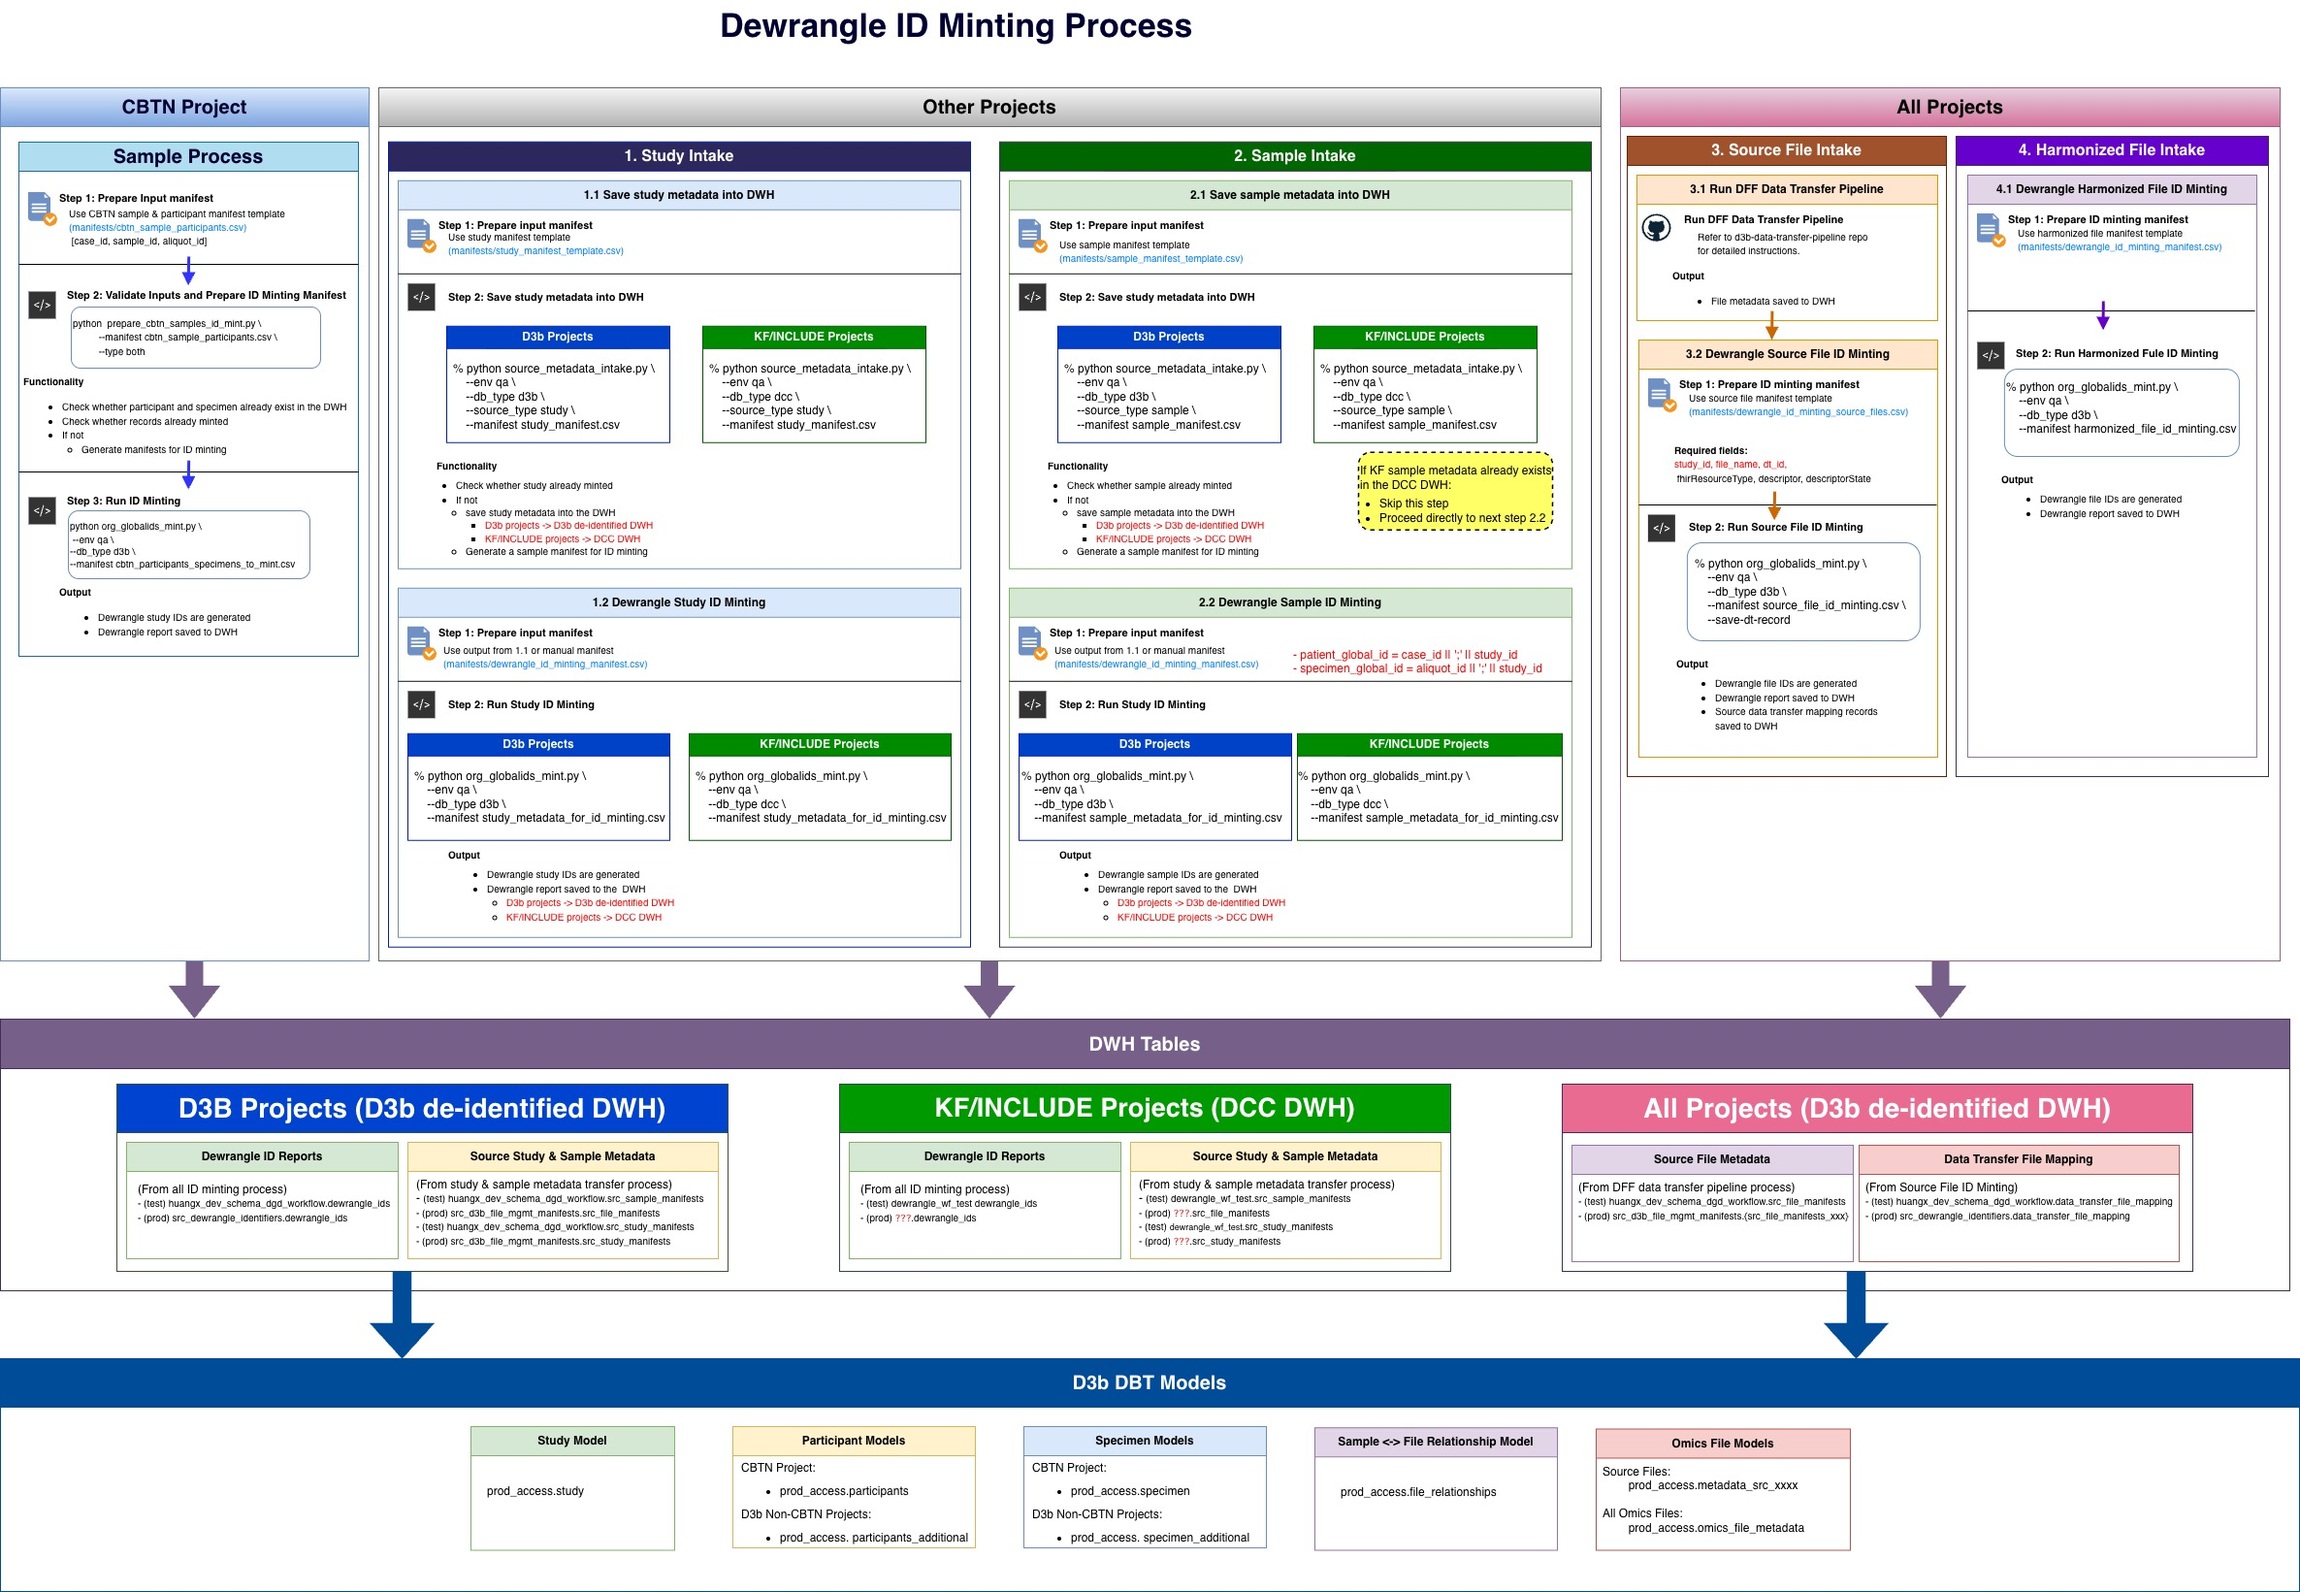
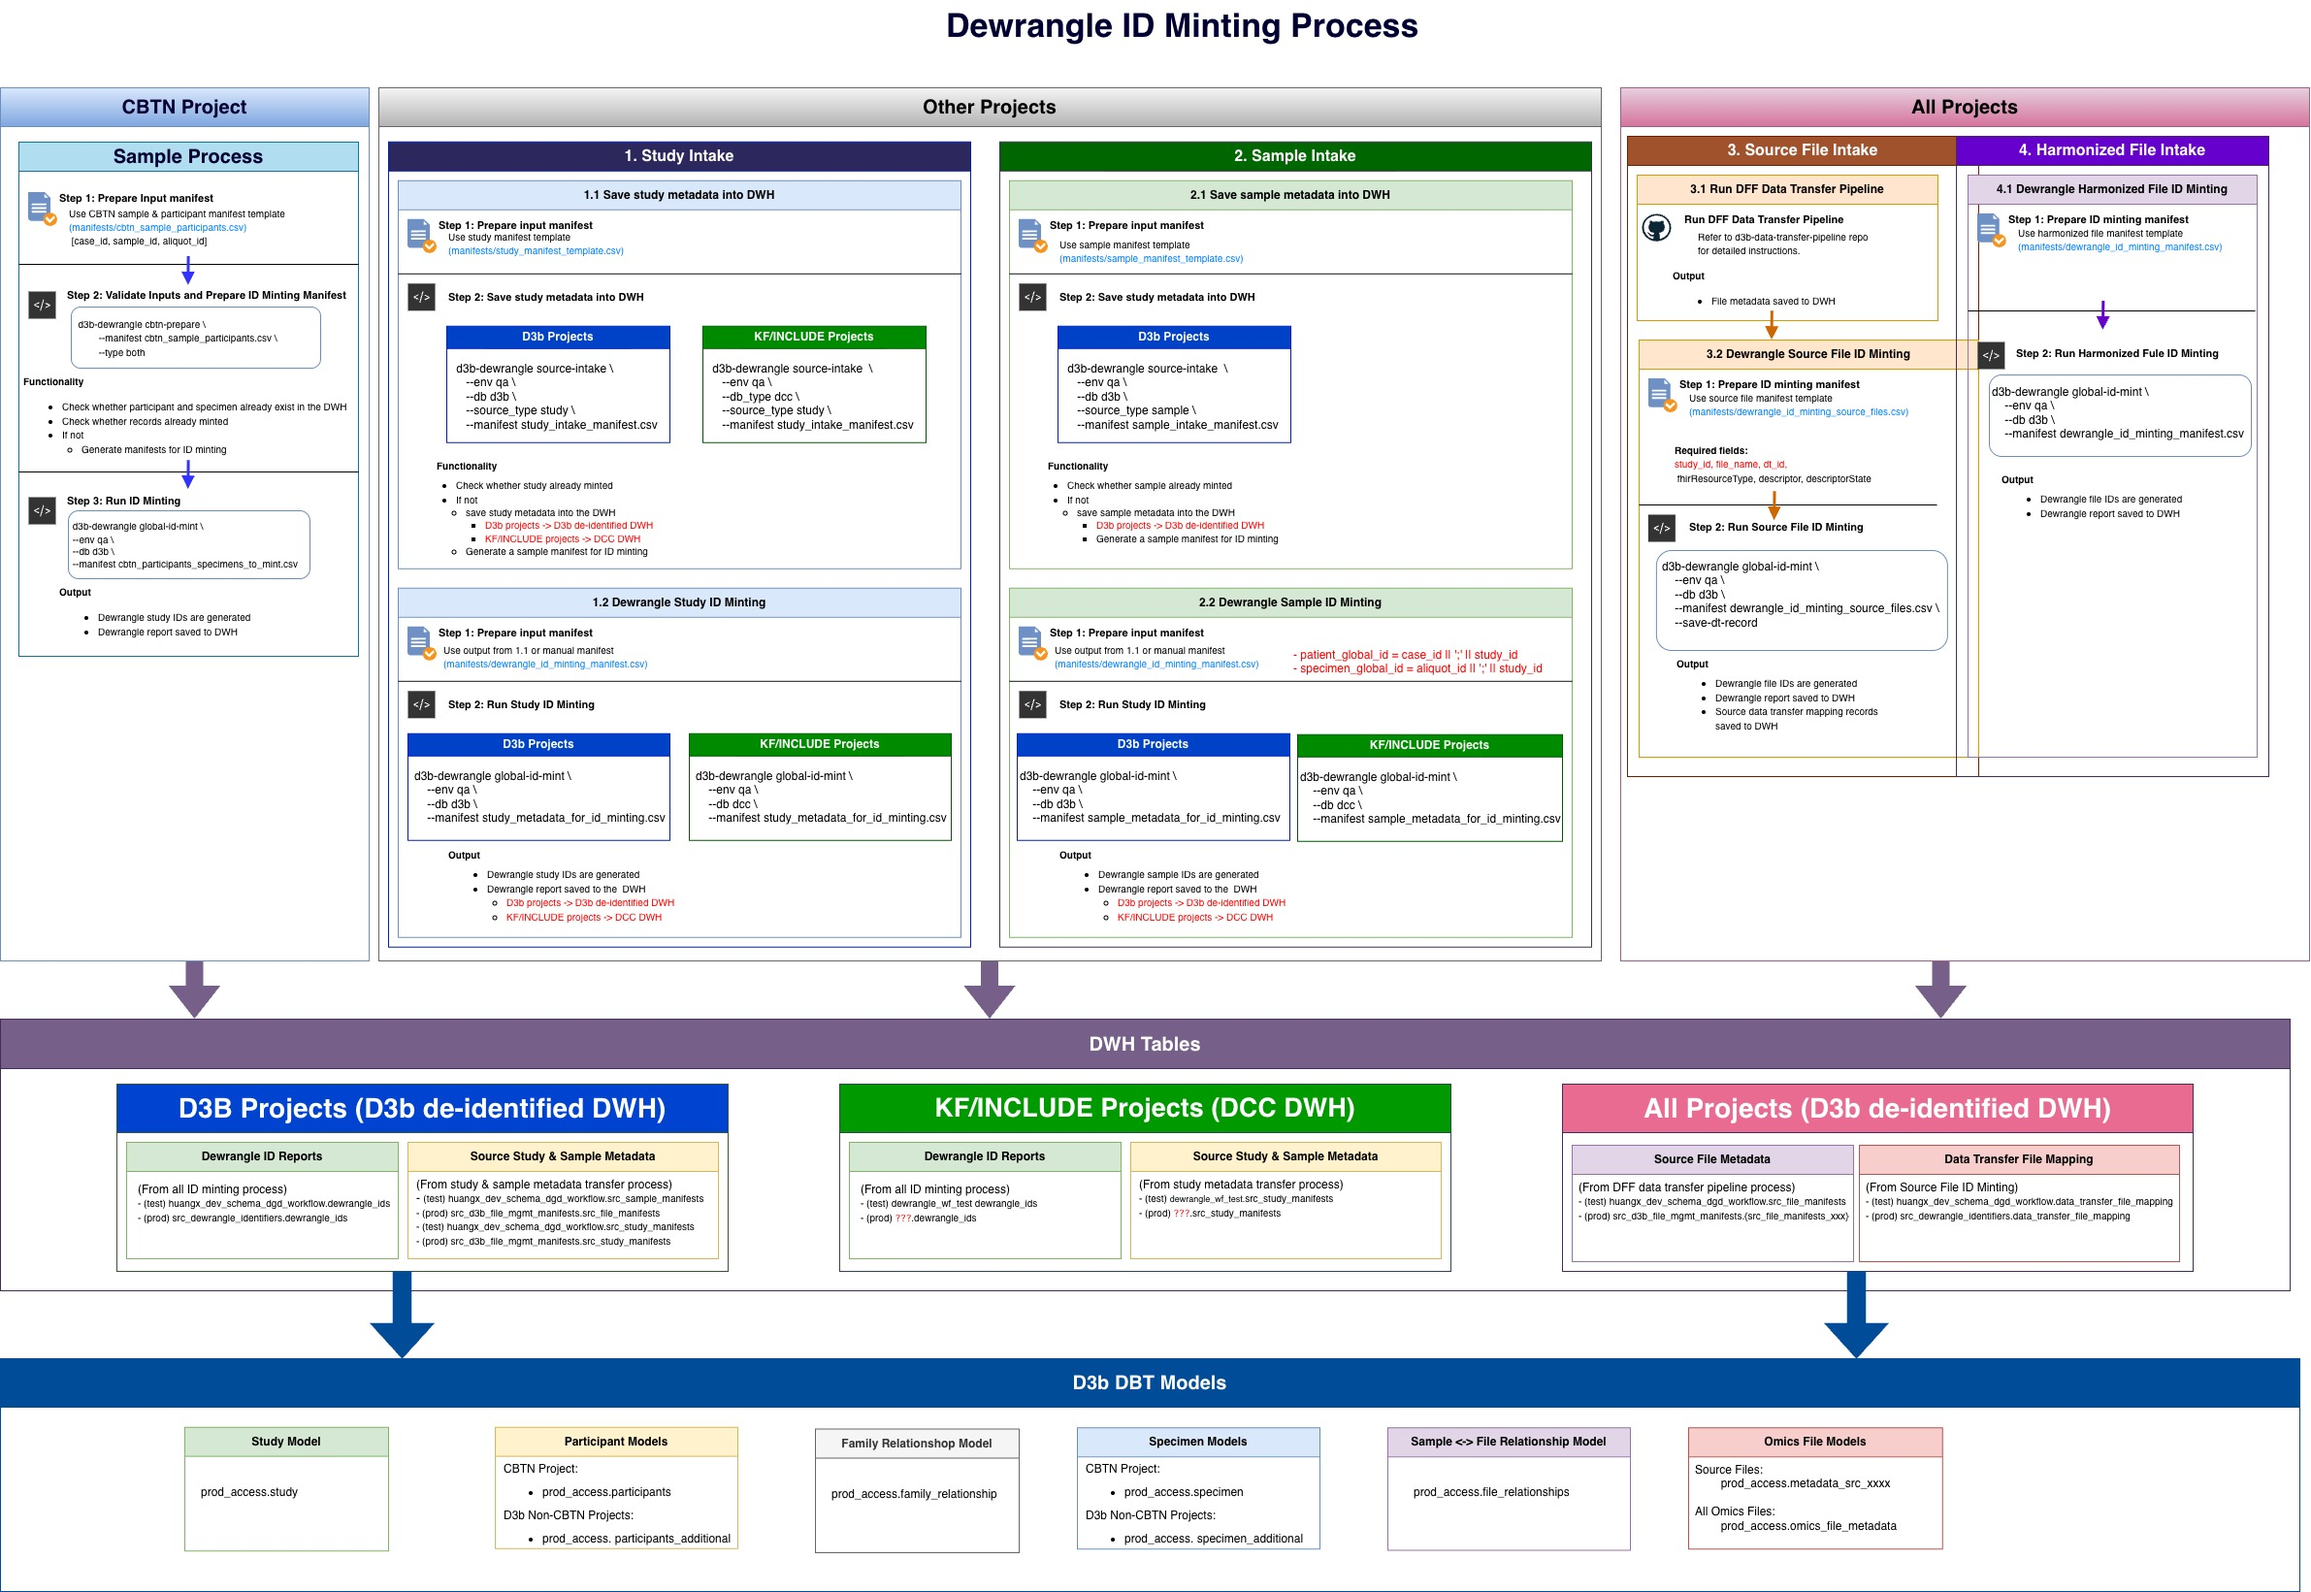
📝 Update readme

diff --git a/d3b-dewrangle-cli/scripts/d3b_dewrangle.py b/d3b-dewrangle-cli/scripts/d3b_dewrangle.py
@@ -12,7 +12,7 @@ Subcommands:
   cbtn-prepare      Validate CBTN data and prepare a minting manifest
 
 Usage examples:
-  d3b-dewrangle source-intake --env qa --db d3b --type sample --manifest sample.csv
+  d3b-dewrangle source-intake --env qa --db d3b --source_type sample --manifest sample.csv
   d3b-dewrangle global-id-mint --env qa --db d3b --manifest manifest.csv --save-dt-record
   d3b-dewrangle global-id-check --env qa --id sd-xxxxxx
   d3b-dewrangle global-id-update --env qa --db d3b --manifest update.csv

diff --git a/README.md b/README.md
@@ -54,7 +54,9 @@ d3b-dewrangle --help
 
 ## Configuration
 
-All credentials and environment-specific settings are loaded from **`configs/env_setting`**.
+All credentials and environment-specific settings are loaded from [**`configs/env_setting`**](configs/env_setting).
+
+> **Need access?** If you don't have access to the default test enviroment, request them from the admin team.
 
 ### Required environment variables
 
@@ -77,6 +79,7 @@ All credentials and environment-specific settings are loaded from **`configs/env
 ```bash
 source configs/env_setting
 ```
+
 ---
 
 ## Quick Start (Unified CLI)
@@ -90,17 +93,16 @@ d3b-dewrangle <subcommand> [options]
 | Subcommand | What it does | Example |
 |------------|--------------|---------|
 | `source-intake` | Ingest study / sample metadata into the DWH | `d3b-dewrangle source-intake --env qa --db d3b --type study --manifest manifests/study_intake_manifest.csv` |
-| `global-id-mint` | Mint org-level global IDs from a manifest and save its record into DWH| `d3b-dewrangle global-id-mint --env qa --db d3b --manifest manifests/dewrangle_id_minting_manifest.csv` |
-| `global-id-check` | Query a specific global ID and download its record | `d3b-dewrangle global-id-check --env qa --id sd-xxxxxx` |
-| `global-id-update` | Update specific global ID records from a manifest and update its record in the DWH| `d3b-dewrangle global-id-update --env qa --db d3b --manifest manifests/dewrangle_id_update_manifest.csv` |
-| `study-create` | Create a Kids First study in Dewrangle and save its record into DWH| `d3b-dewrangle study-create --env qa --db dcc --study-name "My Study"` |
+| `global-id-mint` | Mint org-level global IDs from a manifest and save to DWH | `d3b-dewrangle global-id-mint --env qa --db d3b --manifest manifests/dewrangle_id_minting_manifest.csv` |
+| `global-id-check` | Query a specific global ID from Dewrangle and download its record | `d3b-dewrangle global-id-check --env qa --id sd-xxxxxx` |
+| `global-id-update` | Update specific global IDs in Dewrangle and sync changes to DWH | `d3b-dewrangle global-id-update --env qa --db d3b --manifest manifests/dewrangle_id_update_manifest.csv` |
+| `study-create` | Create a Kids First study in Dewrangle and save to DWH | `d3b-dewrangle study-create --env qa --db dcc --study-name "My Study"` |
 | `cbtn-prepare` | Validate CBTN data and prepare minting manifest | `d3b-dewrangle cbtn-prepare --manifest manifests/cbtn_sample_participants.csv --type both` |
 
 ### Get help for any subcommand
 ```bash
 d3b-dewrangle --help
 d3b-dewrangle global-id-mint --help
-d3b-dewrangle global-id-update --help
 ```
 
 ### Common arguments
@@ -177,7 +179,7 @@ Required fields: `study_name`, `program`
 d3b-dewrangle source-intake \
     --env qa --db d3b \
     --type study \
-    --manifest manifests/study_intake_manifest.csv
+    --manifest manifests/study_manifest_template.csv
 ```
 
 This generates `study_metadata_for_id_minting.csv` if studies are not yet minted.
@@ -205,7 +207,7 @@ Required fields: `study_id`, `case_id`, `sample_id`, `aliquot_id`
 d3b-dewrangle source-intake \
     --env qa --db d3b \
     --type sample \
-    --manifest manifests/sample_intake_manifest.csv
+    --manifest manifests/sample_manifest_template.csv
 ```
 
 This generates `sample_metadata_for_id_minting.csv`.
@@ -240,11 +242,10 @@ d3b-dewrangle study-create \
 ```
 
 Functionality:
-1. Query Dewrangle API to check if this study already exist. And check if this study alreay exist in the DWH,
-2. If yes + in DWH → nothing to do
-3. If yes + missing from DWH → download report and save
-4. If no → create study → download report → save to DWH
-5. 
+1. Query Dewrangle API to check if this study already exists, and check the DWH
+2. If exists in Dewrangle + in DWH → nothing to do
+3. If exists in Dewrangle + missing from DWH → download report and save
+4. If not exists → create study → download report → save to DWH
 #### 3.2 Sample ID Minting
 
 **Step 1 — Prepare sample manifest**
@@ -264,11 +265,11 @@ d3b-dewrangle global-id-mint \
 ```
 ---
 
-### 5. File Intake (All Projects)
+### 4. File Intake (All Projects)
 
 All file metadata is stored in the **D3b DWH**, regardless of project type.
 
-#### 5.1 Source File Intake
+#### 4.1 Source File Intake
 
 **Step 1 — Run the DFF Data Transfer Pipeline**
 - See [d3b-data-transfer-pipeline](https://github.com/d3b-center/d3b-data-transfer-pipeline) for instructions.
@@ -291,7 +292,7 @@ d3b-dewrangle global-id-mint \
 - Report saved to DWH (`dewrangle_ids` table)
 - Data transfer mapping saved to DWH (`data_transfer_file_mapping` table)
 
-#### 5.2 Harmonized File Intake
+#### 4.2 Harmonized File Intake
 
 Prepare a manifest using [`manifests/dewrangle_id_minting_manifest.csv`](manifests/dewrangle_id_minting_manifest.csv)
 - `fhirResourceType = 'DocumentReference'`
